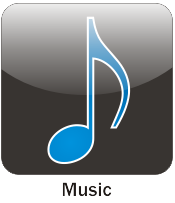
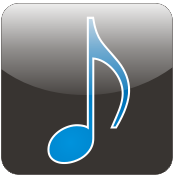
updated subject images (removed text), updated grade images (removed white background), adapted Chakra accordingly

diff --git a/chakra/grade1.html b/chakra/grade1.html
@@ -23,21 +23,21 @@
 <a href="index_iphone.html">Home</a> - Grade 1
 </div>
 <ul id="grades" class="usual">
-<li id="grade1"><a href="grade1e.html"><img src="testdata/01_10.png" width="100px" alt="Grade 1" title="grade1"></a></li>
-<li id="grade2"><a href="#tab_grade2"><img src="testdata/01_05.png" width="100px" alt="Grade 1" title="grade1"></a></li>
-<li id="grade3"><a href="#tab_grade3"><img src="testdata/01_03.png" width="100px" alt="Grade 1" title="grade1"></a></li>
-<li id="grade4"><a href="#tab_grade4"><img src="testdata/01_01.png" width="100px" alt="Grade 1" title="grade1"></a></li>
+<li id="grade1"><a href="grade1e.html"><img src="testdata/01_10.png" width="100px" alt="English" title="English">English</a></li>
+<li id="grade2"><a href="#tab_grade2"><img src="testdata/01_05.png" width="100px" alt="Math" title="Math">Math</a></li>
+<li id="grade3"><a href="#tab_grade3"><img src="testdata/01_03.png" width="100px" alt="Science" title="Science">Science</a></li>
+<li id="grade4"><a href="#tab_grade4"><img src="testdata/01_01.png" width="100px" alt="Geography" title="Geography">Geography</a></li>
 </ul>
 <ul id="grades" class="usual">
-<li id="grade5"><a href="#tab_grade5"><img src="testdata/01_09.png" width="100px" alt="Grade 1" title="grade1"></a></li>
-<li id="grade6"><a href="#tab_grade6"><img src="testdata/01_11.png" width="100px" alt="Grade 1" title="grade1"></a></li>
-<li id="grade7"><a href="#tab_grade7"><img src="testdata/01_16.png" width="100px" alt="Grade 1" title="grade1"></a></li>
-<li id="grade8"><a href="#tab_grade8"><img src="testdata/01_17.png" width="100px" alt="Grade 1" title="grade1"></a></li>
+<li id="grade5"><a href="#tab_grade5"><img src="testdata/01_09.png" width="100px" alt="Music" title="Music">Music</a></li>
+<li id="grade6"><a href="#tab_grade6"><img src="testdata/01_11.png" width="100px" alt="Nepali" title="Nepali">Nepali</a></li>
+<li id="grade7"><a href="#tab_grade7"><img src="testdata/01_16.png" width="100px" alt="History" title="History">History</a></li>
+<li id="grade8"><a href="#tab_grade8"><img src="testdata/01_17.png" width="100px" alt="Health" title="Health">Health</a></li>
 </ul>
 <ul id="admin" class="usual">
 <li id="profile"><a href="#tab_profile"><img src="testdata/profile.png" alt="Student Profile" title="profile"><br />Student Profile</a></li>
 <li id="mystuff"><a href="#tab_mystuff"><img src="testdata/mystuff.png" alt="My Stuff" title="mystuff"><br />My Stuff</a></li>
-<li id="about"><a href="#tab_about"><img src="testdata/about.png" alt="About Karma" title="about"><br />About Karma</a></li>
+<li id="about"><a href="#tab_about"><img src="testdata/about.png" width="80px" alt="About Karma" title="about"><br />About Karma</a></li>
 </ul>
 </div>
 

diff --git a/chakra/index_iphone.html b/chakra/index_iphone.html
@@ -37,7 +37,7 @@ Home
 <ul id="admin" class="usual">
 <li id="profile"><a href="#tab_profile"><img src="testdata/profile.png" alt="Student Profile" title="profile"><br />Student Profile</a></li>
 <li id="mystuff"><a href="#tab_mystuff"><img src="testdata/mystuff.png" alt="My Stuff" title="mystuff"><br />My Stuff</a></li>
-<li id="about"><a href="#tab_about"><img src="testdata/about.png" alt="About Karma" title="about"><br />About Karma</a></li>
+<li id="about"><a href="#tab_about"><img src="testdata/about.png" width="80px" alt="About Karma" title="about"><br />About Karma</a></li>
 </ul>
 </div>
 

diff --git a/chakra/css/chakra_iphone.css b/chakra/css/chakra_iphone.css
@@ -89,6 +89,11 @@ float: left;
 color:#000000;
 }
 
+#admin img
+{
+border: none;
+}
+
 #chakra
 {
 background: #FFFFFF;
